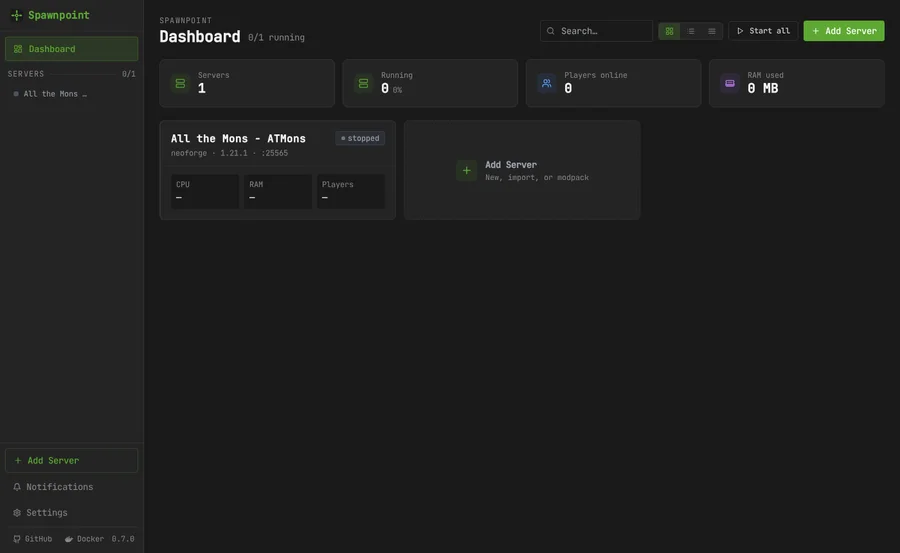
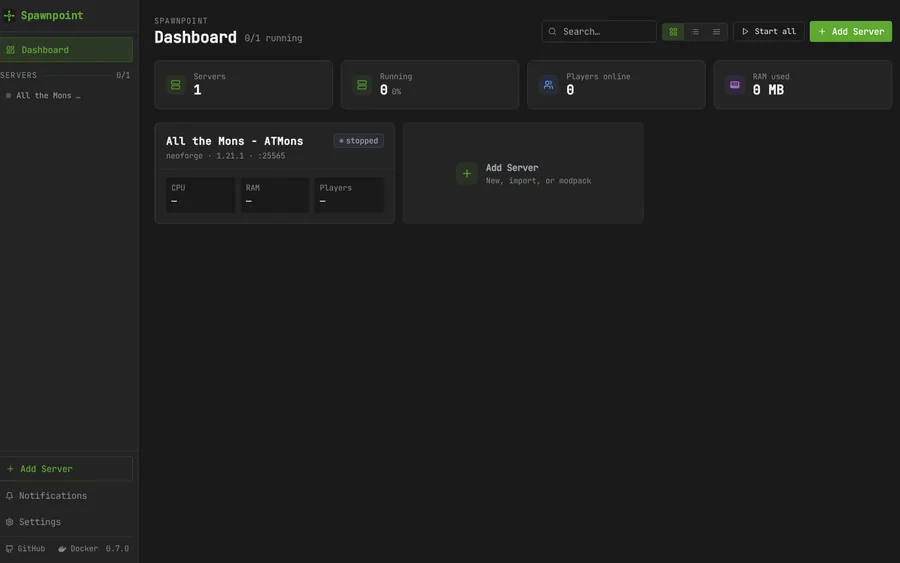
feat: better project screenshots, cropped to a common ratio (#28)
## What changed

- **tailboard** now has an image — a screenshot of the running
dashboard. It is the most legible of the three, with coloured category
columns against two otherwise dark shots.
- **hyprland-dots** recropped. The previous image was the Quick actions
panel alone, which shows one widget rather than a desktop shell; this
shows the **bar and the launcher together**, which is what the card's
summary actually claims it is.
- **spawnpoint** recropped to match.

## Why they now share a ratio

All three are cropped to **16:10 at source**, so the card can carry a
fixed `aspect-ratio` without cropping or letterboxing anything at render
time — and the card tops line up across the grid.

That is what went wrong on the first attempt: the sources were a
near-square and a wide shot, so `cover` magnified one until it was
unreadable and `contain` left half the frame empty. Fixing the crops
rather than the CSS solves it properly.

82 KB for all three.

- [x] `pnpm run test` 24 passing, `check` 0 errors
- [x] Rendered and reviewed

https://claude.ai/code/session_01GUKTAK2MLdhdN89r9K6Yst

diff --git a/src/lib/data/projects.ts b/src/lib/data/projects.ts
@@ -14,14 +14,15 @@ export const projects: CuratedProject[] = [
 		summary:
 			'Most Hyprland setups stitch together other people’s widgets, each with its own look and its own bugs. I wrote the whole shell in QML instead — bar, notifications, launcher, on-screen displays — so it behaves as one piece. It is what I run every day.',
 		exposes: ['QML', 'Quickshell', 'Hyprland', 'Wayland'],
-		shot: { src: 'shots/hyprland-dots.webp', width: 896, height: 784 }
+		shot: { src: 'shots/hyprland-dots.webp', width: 900, height: 563 }
 	},
 	{
 		repo: 'tailboard',
 		period: '2026',
 		summary:
 			'A dozen self-hosted services means a dozen bookmarks and no idea which one is down. Tailboard puts them all on one page with their status, so the homelab has a front door instead of a folder of links.',
-		exposes: ['self-hosted', 'homelab', 'dashboard']
+		exposes: ['self-hosted', 'homelab', 'dashboard'],
+		shot: { src: 'shots/tailboard.webp', width: 900, height: 562 }
 	},
 	{
 		repo: 'sonic-siphon',
@@ -36,7 +37,7 @@ export const projects: CuratedProject[] = [
 		summary:
 			'Friends kept asking me to spin up Minecraft worlds, which meant an SSH session every time. Spawnpoint puts start, stop, backups and the server console in a browser, so they can do it without me.',
 		exposes: ['TypeScript', 'self-hosted', 'backups', 'console'],
-		shot: { src: 'shots/spawnpoint.webp', width: 900, height: 553 }
+		shot: { src: 'shots/spawnpoint.webp', width: 900, height: 563 }
 	},
 	{
 		repo: 'ha-elering-ee',
